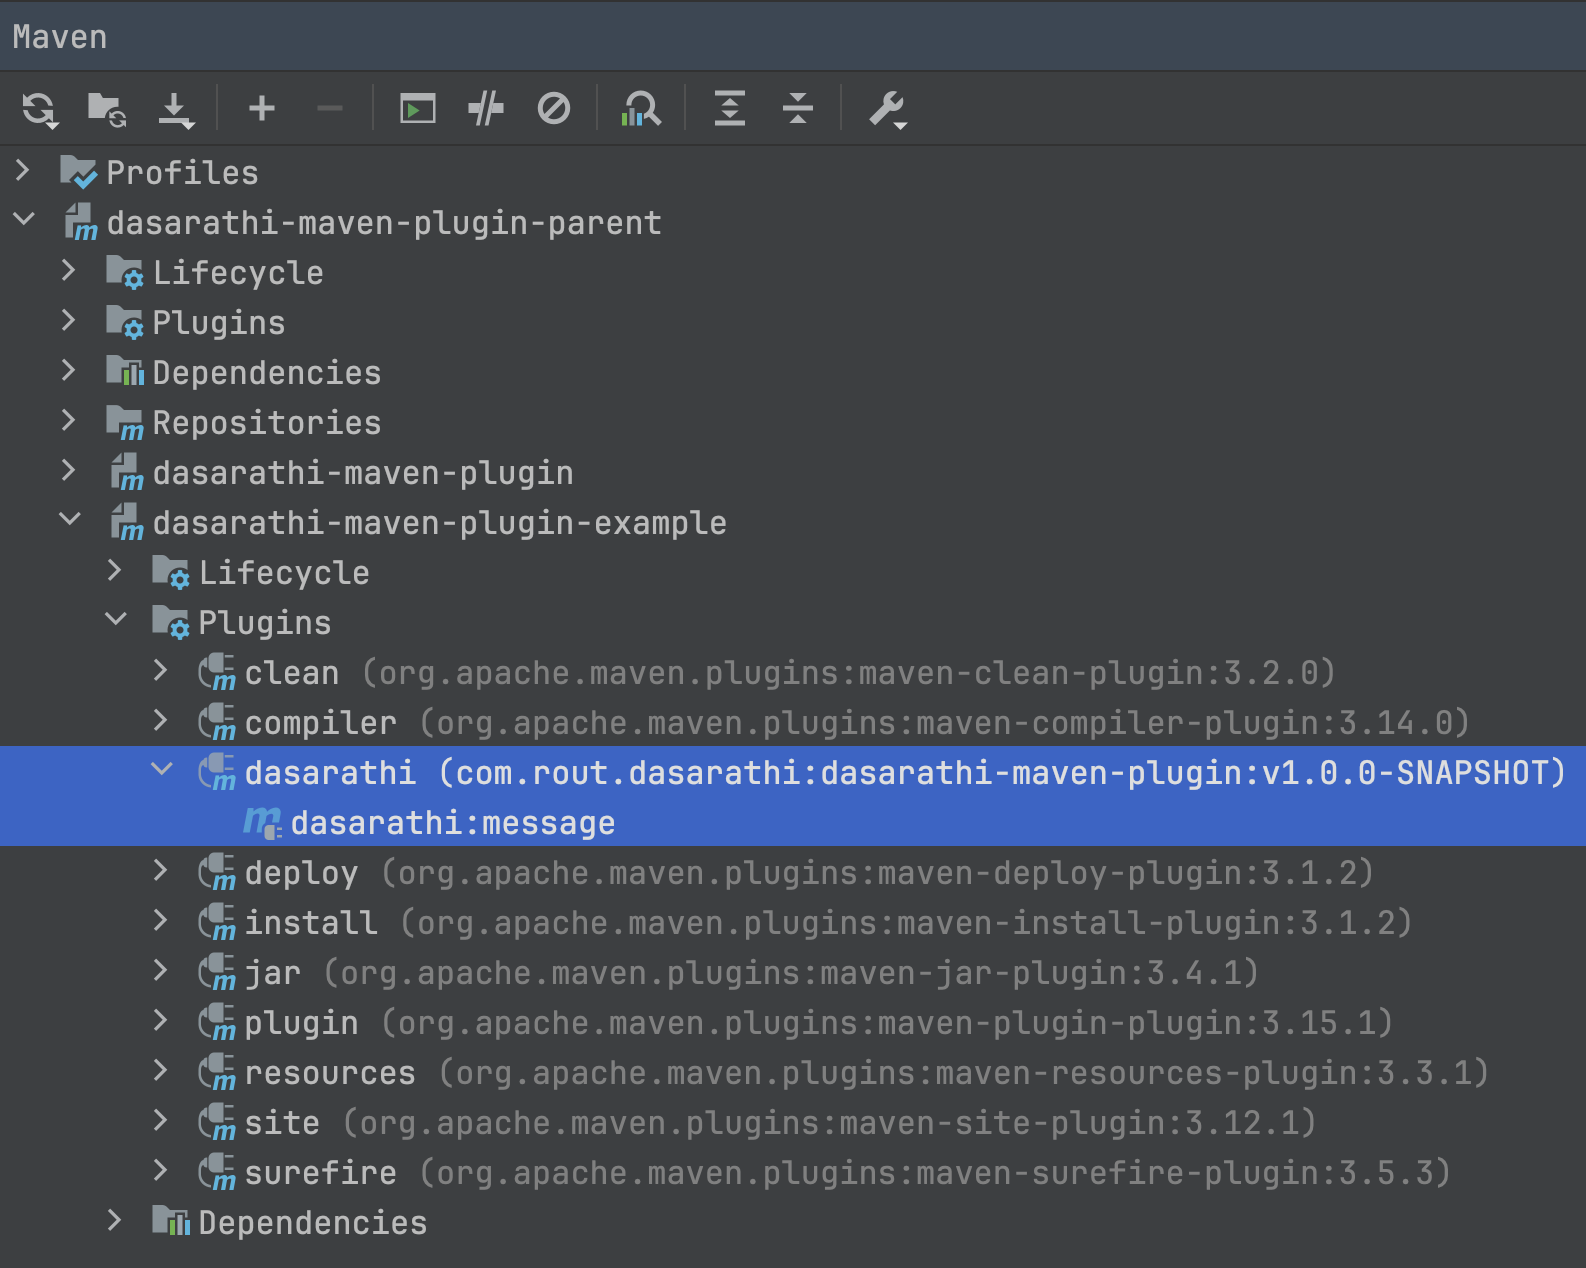
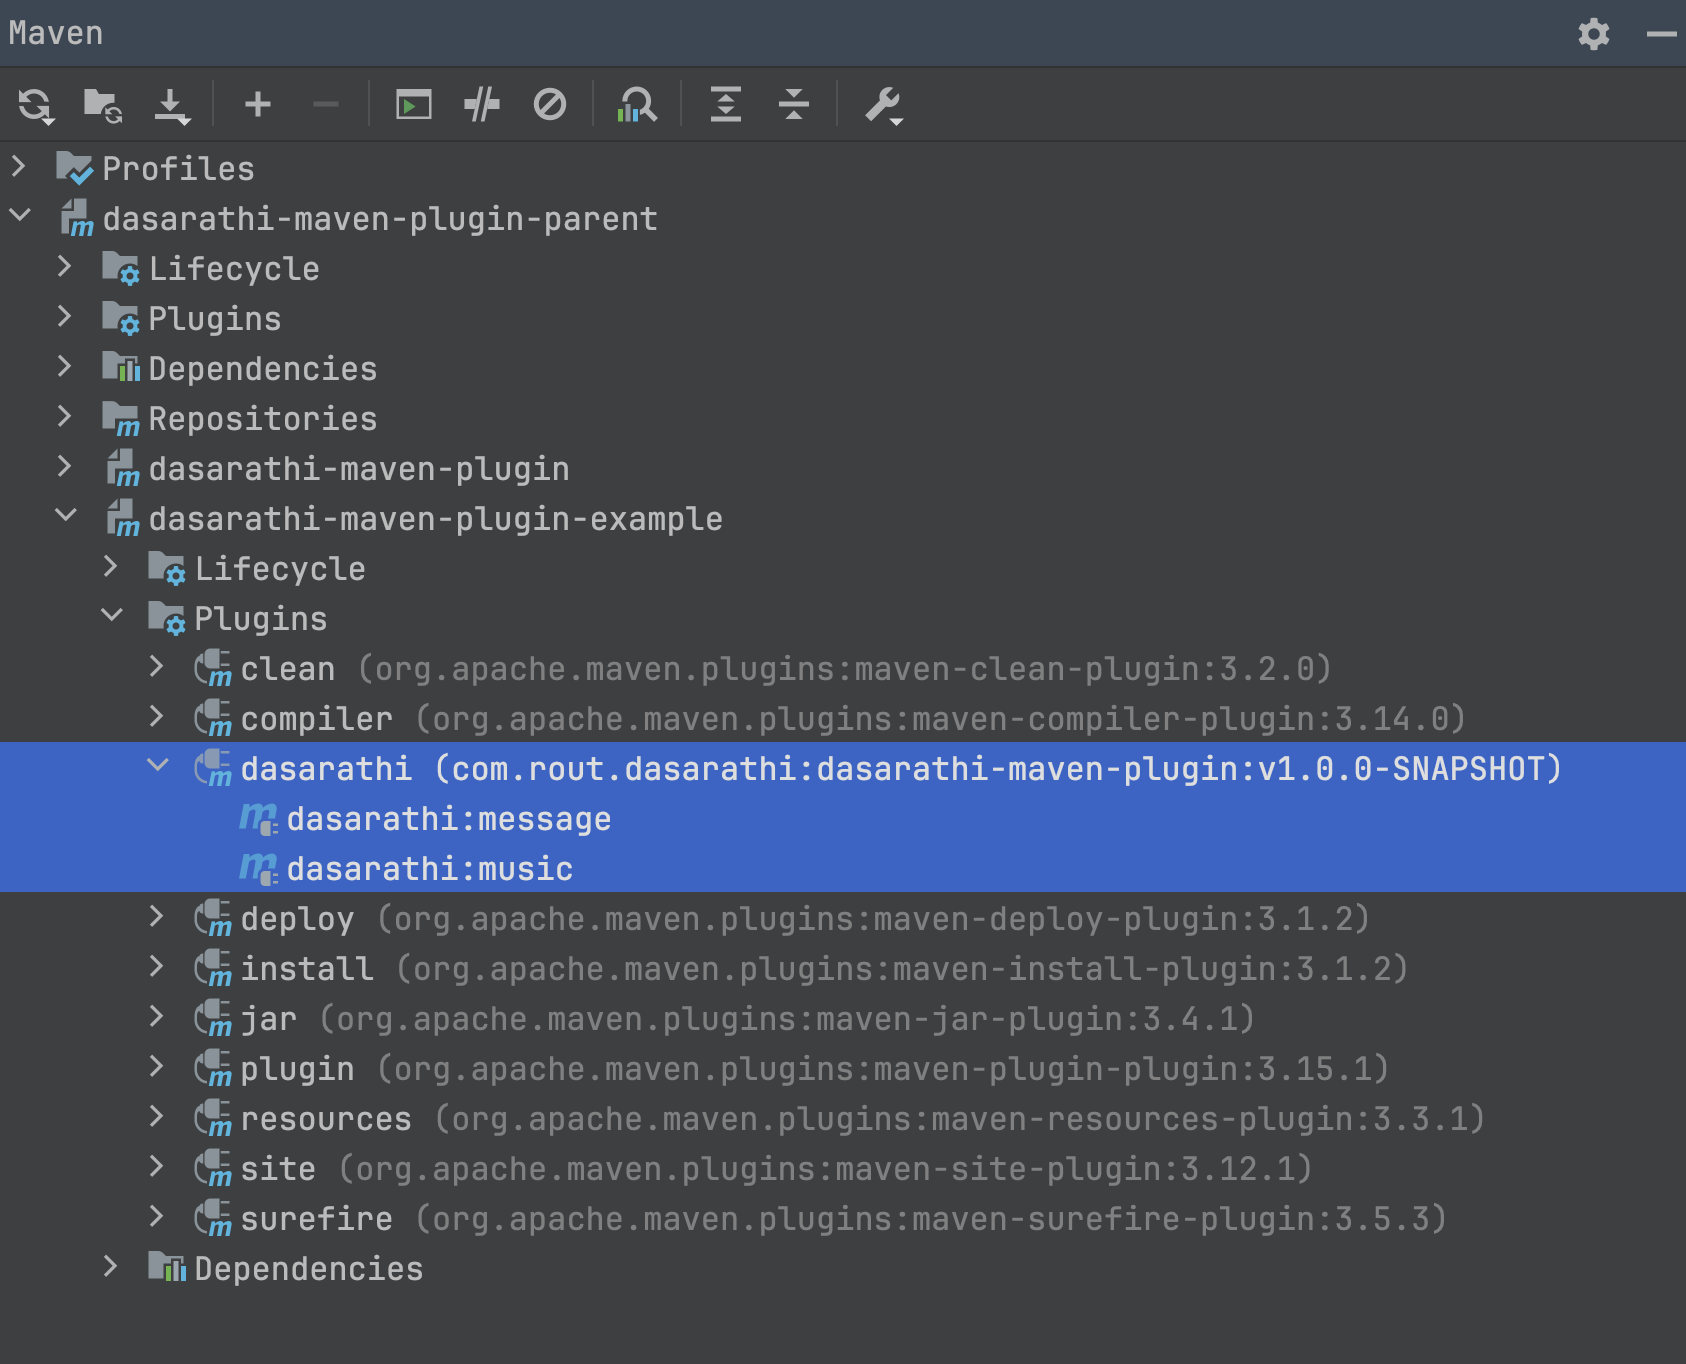
README & Example Cleanup

diff --git a/dasarathi-maven-plugin/src/test/java/com/rout/dasarathi/music/MP3PlayerTest.java b/dasarathi-maven-plugin/src/test/java/com/rout/dasarathi/music/MP3PlayerTest.java
@@ -21,7 +21,6 @@ public class MP3PlayerTest {
     }
 
     @Test
-    @Timeout(10)
     @Disabled
     void testPlayMusic() {
         try {
@@ -34,7 +33,6 @@ public class MP3PlayerTest {
     }
 
     @Test
-    @Timeout(60)
     @Disabled
     void testPlayExecutor() {
         try {

diff --git a/dasarathi-maven-plugin-example/src/test/java/com/rout/dasarathi/ApplicationTest.java b/dasarathi-maven-plugin-example/src/test/java/com/rout/dasarathi/ApplicationTest.java
@@ -1,7 +1,6 @@
 package com.rout.dasarathi;
 
 import org.junit.jupiter.api.Test;
-import org.junit.jupiter.api.Timeout;
 
 public class ApplicationTest {
     @Test

diff --git a/README.md b/README.md
@@ -2,7 +2,45 @@
 
 ---
 
-### Run Maven Command
+### Run Maven Command with custom ASCII Art Message & Play Music when maven build
+
+```xml
+
+<plugin>
+    <groupId>com.rout.dasarathi</groupId>
+    <artifactId>dasarathi-maven-plugin</artifactId>
+    <version>v1.0.0-SNAPSHOT</version>
+    <executions>
+        <execution>
+            <id>1-validate-message</id>
+            <phase>
+                validate
+            </phase>
+            <goals>
+                <goal>message</goal>
+            </goals>
+            <configuration>
+                <userMessage>dasarathi-mvn-3</userMessage>
+            </configuration>
+        </execution>
+        <execution>
+            <id>2-validate-music</id>
+            <phase>
+                validate
+            </phase>
+            <goals>
+                <goal>music</goal>
+            </goals>
+            <configuration>
+                <isMusicSkipped>false</isMusicSkipped>
+            </configuration>
+        </execution>
+    </executions>
+</plugin>
+
+
+
+```
 
 ___
 
@@ -22,7 +60,7 @@ ___
 #### Plugin Console Output
 
 >
-> <img src="./docs/img/image-cli-output.png" alt="Plugin Run Console Output">
+> <img src="./docs/img/image-cli-output-message.png" alt="Plugin Run Console Output">
 
 #### Run maven-plugin with prefix-name
 
@@ -34,7 +72,7 @@ ___
 #### Plugin Console Output (with prefix-name)
 
 >
-> <img src="./docs/img/image-cli-output-prefix.png" alt="Plugin Run Console Output Prefix">
+> <img src="./docs/img/image-cli-output-message-prefix.png" alt="Plugin Run Console Output Prefix">
 
 #### IDE Maven Tool Window Plugin
 
